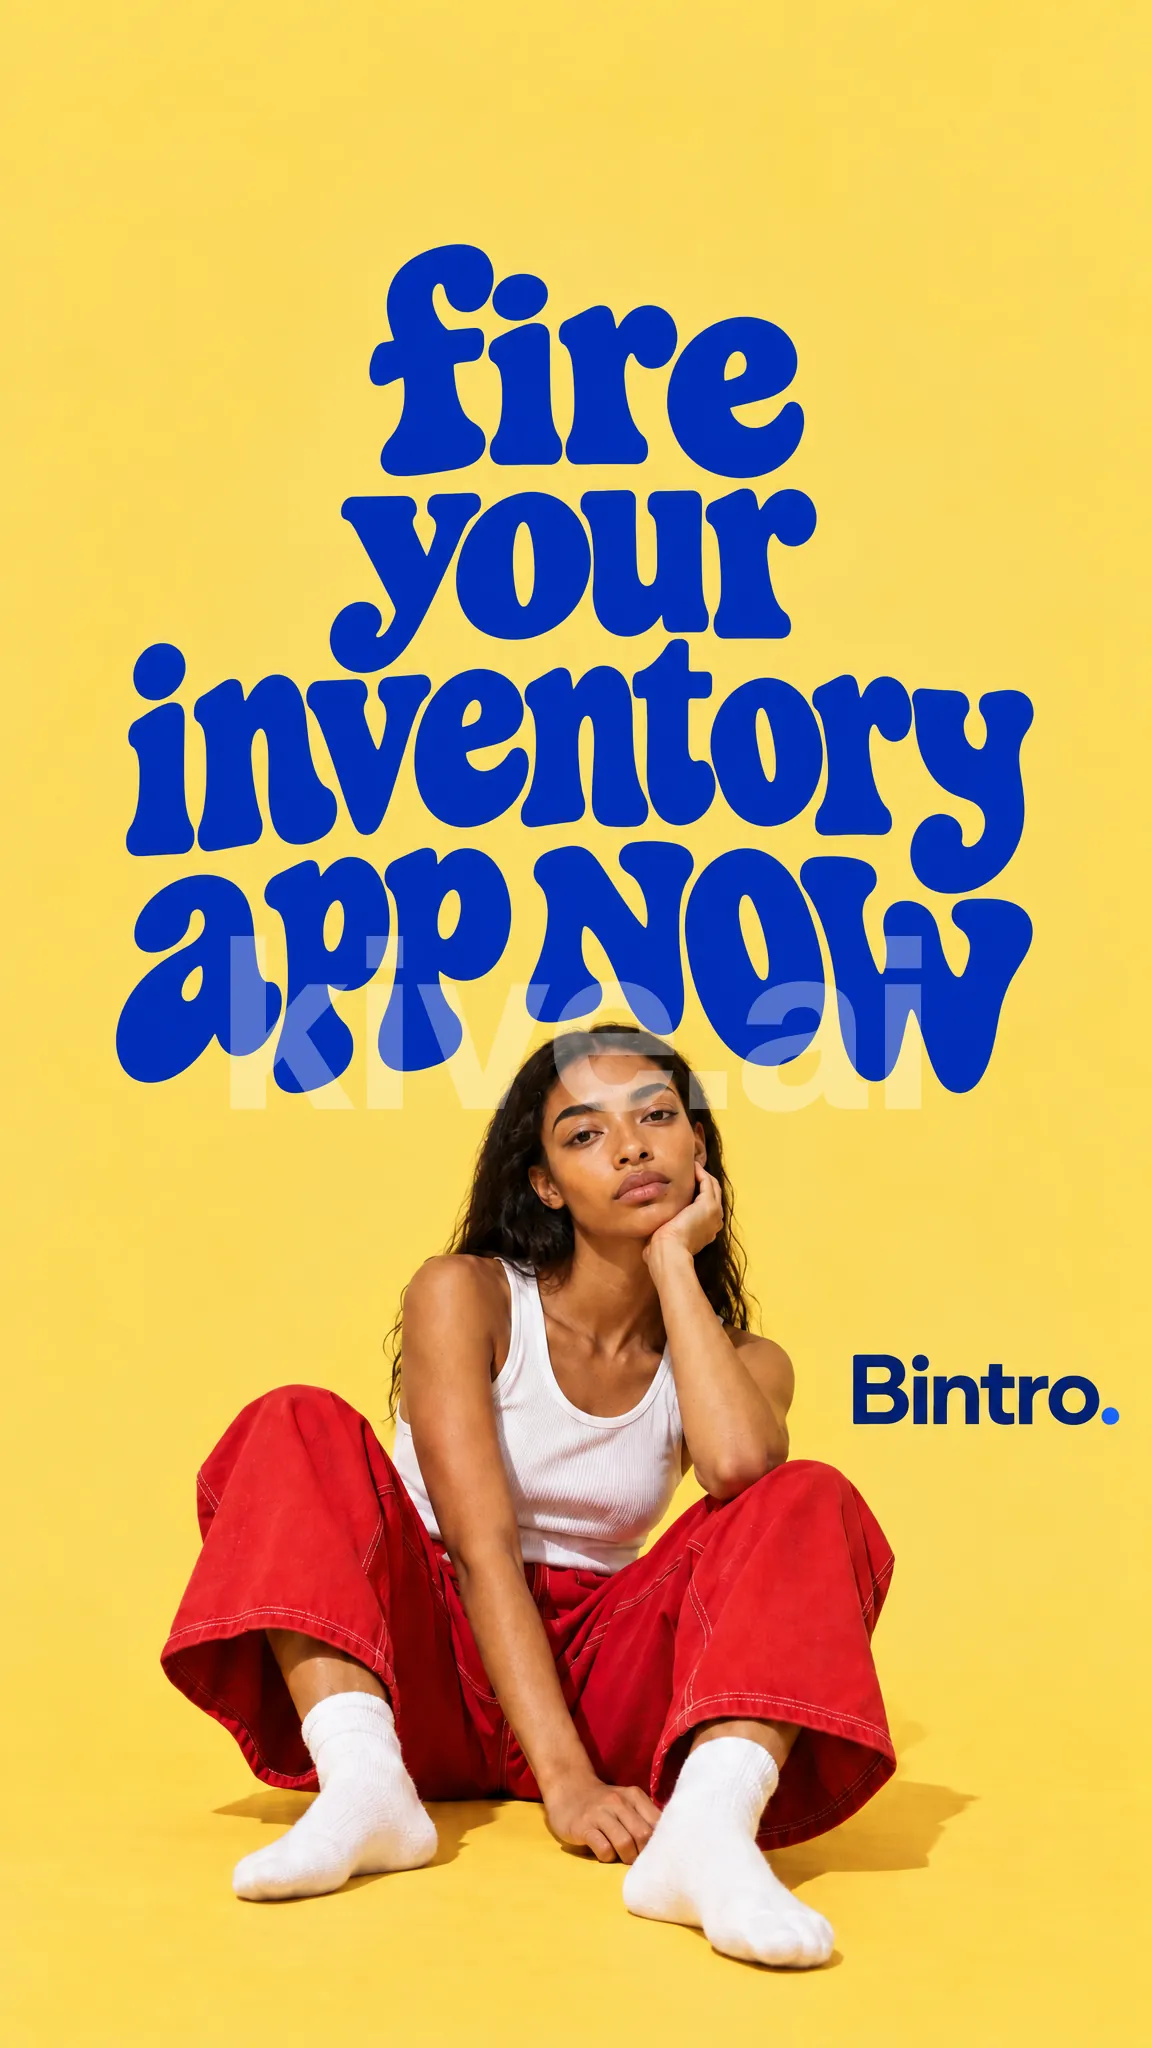
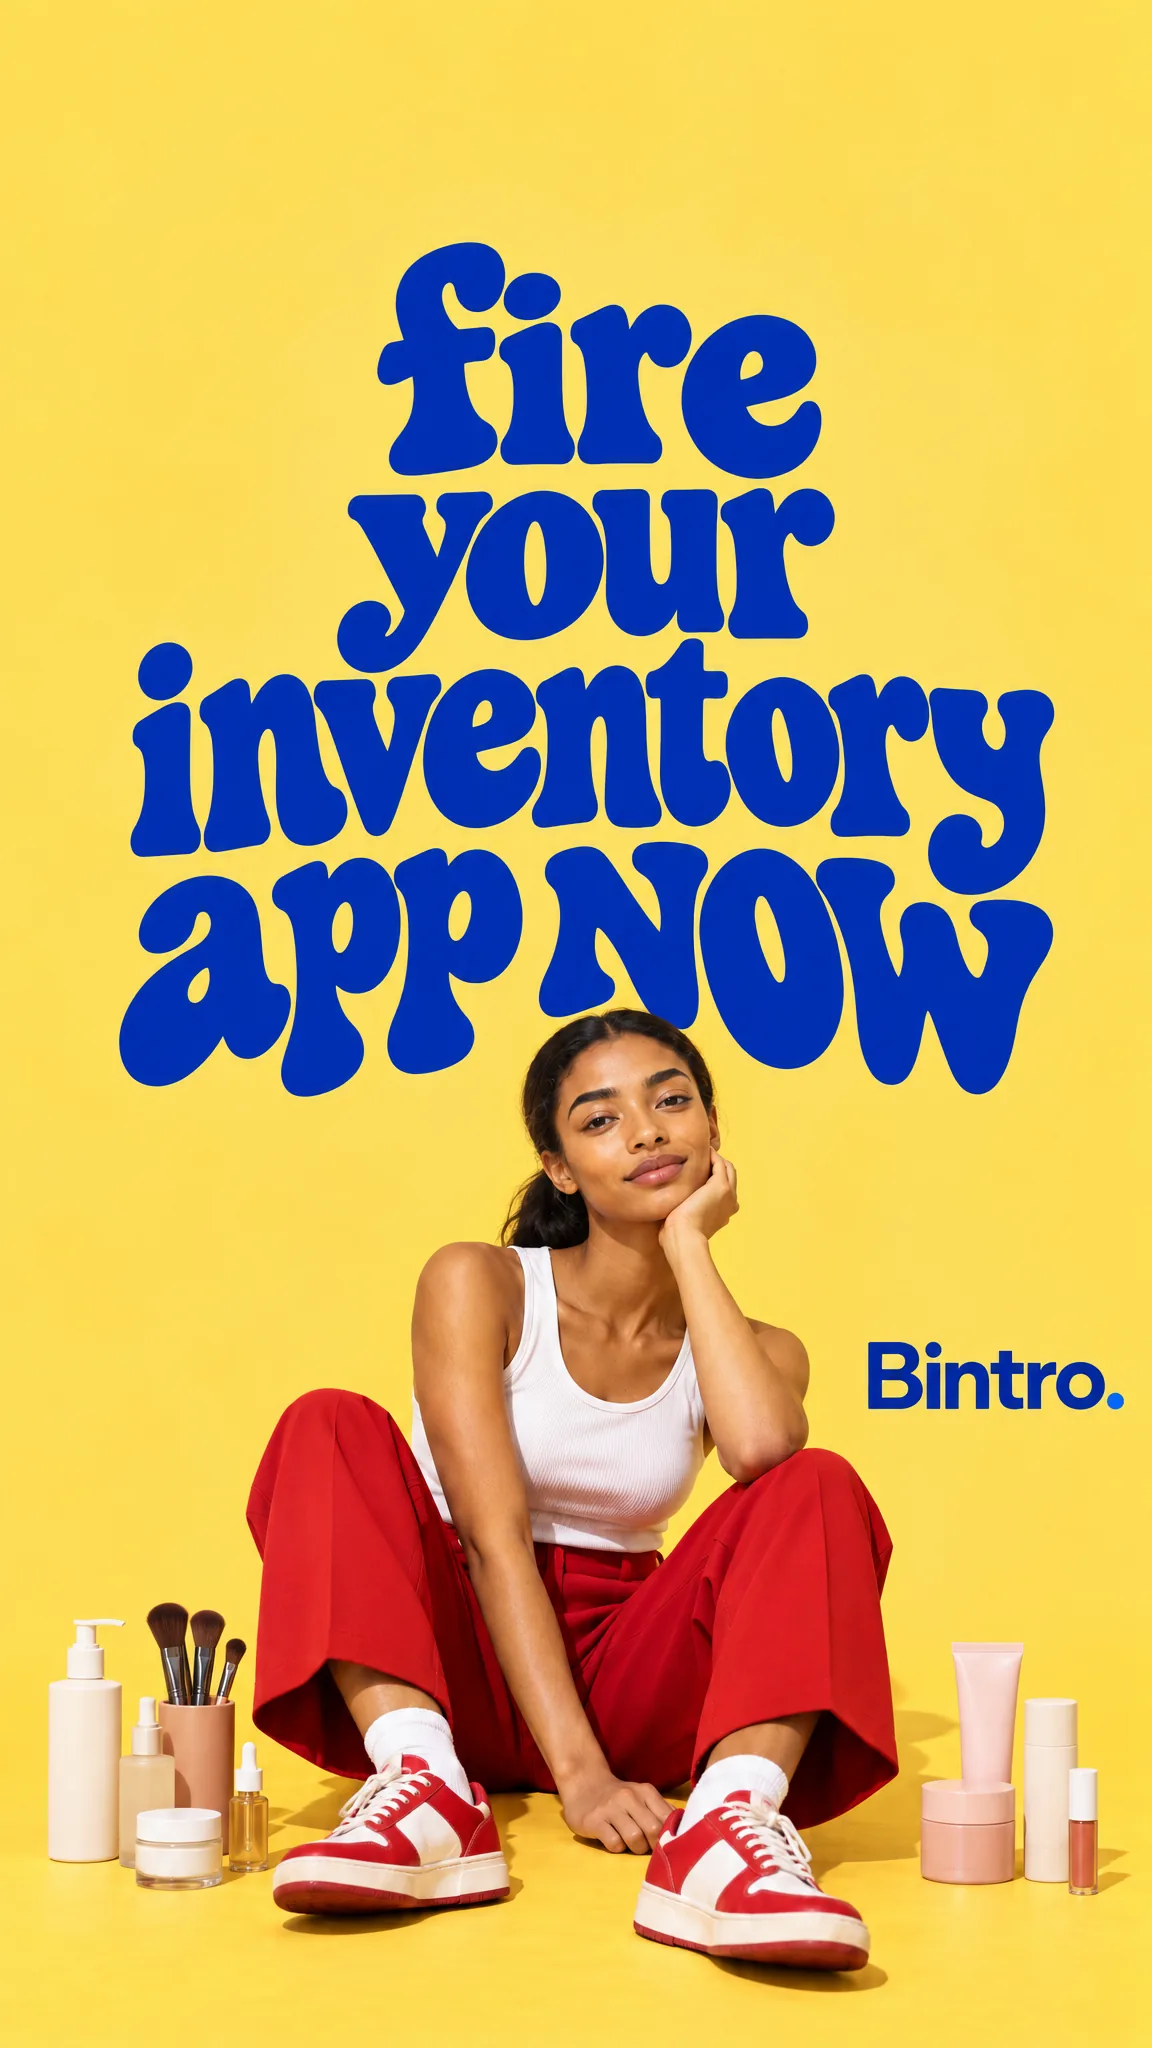
Sign-in: new watermark-free brand photo, always shown whole above a slim sign-in strip
Claude-Session: https://claude.ai/code/session_013cvhZkwcvKdjaqQco8j6Jg

Changed region(s): [[0.0312, 0.0938, 0.9688, 1.0]]

diff --git a/src/components/auth/SignInScreen.tsx b/src/components/auth/SignInScreen.tsx
@@ -14,9 +14,10 @@ export function SignInScreen({ auth }: { auth: AuthState }) {
   }, []);
 
   return (
-    <main className="relative min-h-dvh bg-[#fcda5c] lg:grid lg:grid-cols-2">
-      {/* Brand photo: fills the phone screen; on wider screens it sits beside the sign-in card, never cropped. */}
-      <picture>
+    <main className="h-dvh overflow-hidden bg-[#fdde55] flex flex-col lg:grid lg:grid-cols-2">
+      {/* Brand photo, always shown whole. Phones/tablets: it takes the space above the sign-in strip.
+          Wide screens: left half, with the sign-in card on the right. */}
+      <picture className="flex-1 min-h-0 flex justify-center pt-[env(safe-area-inset-top)] lg:h-dvh">
         <source
           type="image/webp"
           srcSet="/signin-720.webp 720w, /signin-1152.webp 1152w"
@@ -28,43 +29,43 @@ export function SignInScreen({ auth }: { auth: AuthState }) {
           width={1152}
           height={2048}
           fetchPriority="high"
-          className="absolute inset-0 w-full h-full object-contain object-top lg:static lg:h-dvh lg:object-center lg:[mask-image:linear-gradient(to_right,transparent,black_8%,black_92%,transparent)]"
+          className="h-full w-full object-contain object-bottom lg:object-center lg:[mask-image:linear-gradient(to_right,transparent,black_8%,black_92%,transparent)]"
         />
       </picture>
-      <div className="relative z-10 min-h-dvh flex items-end lg:items-center justify-center px-4 pt-4 pb-[max(16px,env(safe-area-inset-bottom))] lg:p-8">
-        <div className="w-full max-w-[380px] bg-white/95 backdrop-blur border border-white rounded-3xl px-6 py-5 lg:p-7 text-center shadow-lg">
-          <h1 className="m-0 text-[22px] lg:text-[24px] font-black text-[#002CB7]">
+      <div className="shrink-0 flex justify-center px-4 pt-2 pb-[max(14px,env(safe-area-inset-bottom))] lg:items-center lg:p-8">
+        <div className="w-full max-w-[380px] text-center lg:bg-white/95 lg:border lg:border-white lg:rounded-3xl lg:p-7 lg:shadow-lg">
+          <h1 className="hidden lg:block m-0 text-[24px] font-black text-[#002CB7]">
             Sign in to Bintro
           </h1>
-          <p className="text-ink-2 text-sm mt-1 mb-4 lg:mb-6">
+          <p className="hidden lg:block text-ink-2 text-sm mt-1 mb-6">
             Use the Google account your business added you with.
           </p>
           {error && (
-            <div className="bg-bad-tint text-bad rounded-xl px-3.5 py-2.5 text-sm mb-4 text-left">
+            <div className="bg-bad-tint text-bad rounded-xl px-3.5 py-2.5 text-sm mb-3 text-left">
               {error}
             </div>
           )}
           {!auth.ownerConfigured && (
-            <div className="bg-warn-tint rounded-xl px-3.5 py-2.5 text-sm mb-4 text-left">
+            <div className="bg-warn-tint rounded-xl px-3.5 py-2.5 text-sm mb-3 text-left">
               No owner is set up yet. Add <code>BINTRO_OWNER_EMAIL</code> in
               Netlify, redeploy, then sign in with that Google account.
             </div>
           )}
           <a
             href="/api/auth/google/start"
-            className="flex items-center justify-center gap-3 w-full rounded-full border border-line bg-white px-5 py-3 font-semibold text-ink no-underline hover:bg-surface"
+            className="flex items-center justify-center gap-3 w-full rounded-full border border-[#002CB7]/15 bg-white px-5 py-3 font-semibold text-ink no-underline shadow-md hover:bg-surface lg:shadow-none lg:border-line"
           >
             <GoogleMark />
             Continue with Google
           </a>
-          <p className="text-ink-2 text-[12px] mt-4 mb-0 flex items-center justify-center gap-1.5">
-            <ShieldCheck size={14} /> Protected by Google 2-Step Verification
-          </p>
-          <p className="text-[12px] mt-2 mb-0">
-            <a href="/terms" className="text-ink-2 no-underline mr-3">
+          <p className="text-[#002CB7]/80 lg:text-ink-2 text-[12px] mt-2.5 lg:mt-4 mb-0 flex items-center justify-center gap-1.5 flex-wrap">
+            <ShieldCheck size={14} /> Google 2-Step Verification
+            <span aria-hidden="true">·</span>
+            <a href="/terms" className="text-inherit no-underline">
               Terms
             </a>
-            <a href="/privacy" className="text-ink-2 no-underline">
+            <span aria-hidden="true">·</span>
+            <a href="/privacy" className="text-inherit no-underline">
               Privacy
             </a>
           </p>

diff --git a/AGENTS.md b/AGENTS.md
@@ -187,7 +187,7 @@ Restock lists and purchase orders send through Resend (`RESEND_API_KEY`) or Send
 `useBusiness()` exposes the profile, the matching `BusinessType` (categories, sizes, expense categories, item noun used in AI prompts and chips) and the display name. Never hardcode the business name — use `displayBusinessName` / `useBusiness().name`.
 
 ### Sign-in screen
-`SignInScreen.tsx` shows the brand photo (`public/signin-720.webp`, `signin-1152.webp`, `signin-720.jpg` fallback; source is 1152×2048 portrait) on mustard `#fcda5c`. Phones and tablets: photo fit to width/height and top-aligned (`object-contain object-top`) so the headline and "Bintro." logo are never cropped, with the sign-in card at the bottom. `lg` and up: two columns, photo left (edges faded with a mask), card centered right.
+`SignInScreen.tsx` shows the brand ad photo (`public/signin-720.webp`, `signin-1152.webp`, `signin-720.jpg` fallback; source 1152×2048 portrait, already includes the "Bintro." logo) on yellow `#fdde55`, always whole (`object-contain`). Phones and tablets: the page is one screen tall; the photo takes the space above a slim sign-in strip (Continue with Google + 2-Step · Terms · Privacy), so the button never covers it. `lg` and up: photo left (edges faded with a mask), white sign-in card right.
 
 ### Budget & expenses
 Monthly spend = stock received (positive `in`/`receive` movements × current `unitCostCents`, grouped by vendor) + rows in `expenses`. `computeBudgetOverview` returns this per month; month windows are computed on the client (`monthRange`) so boundaries follow the device's local time.
